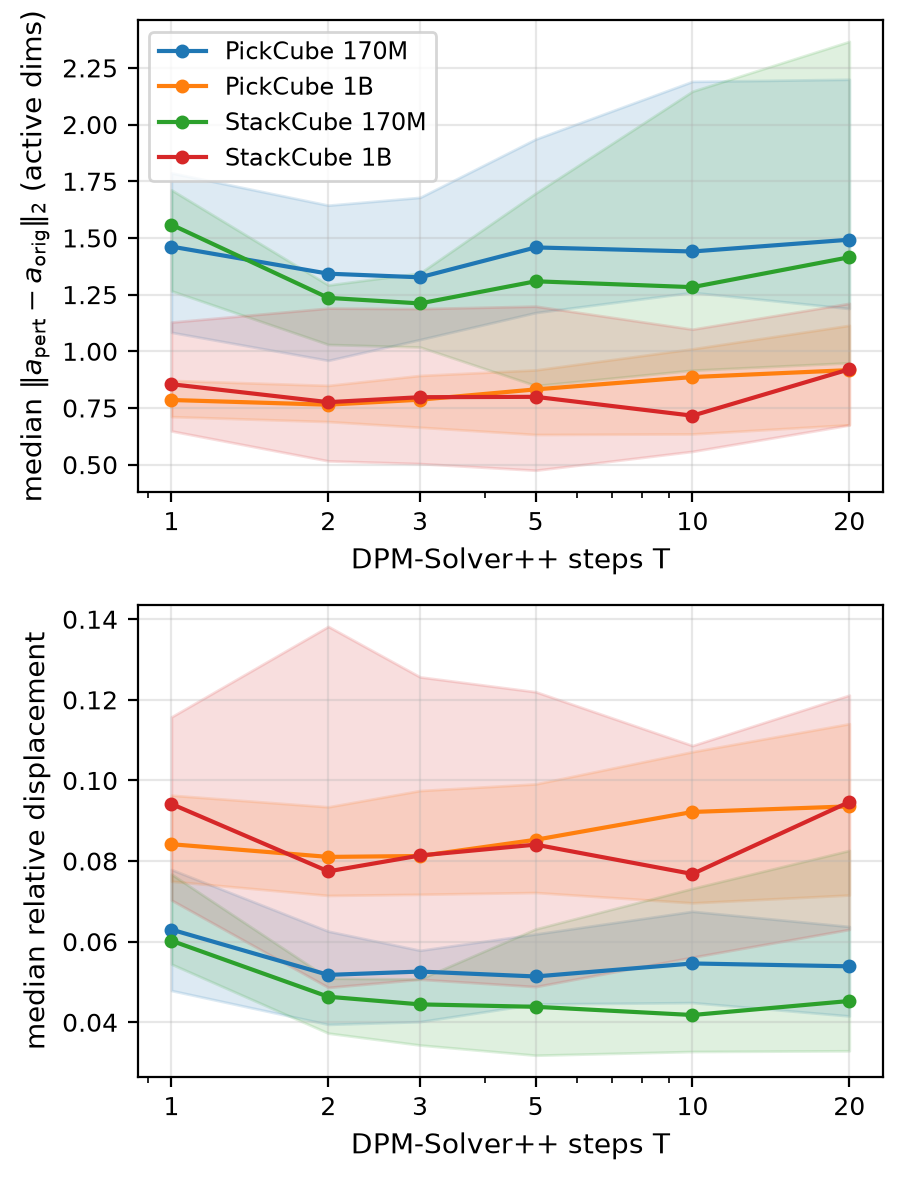
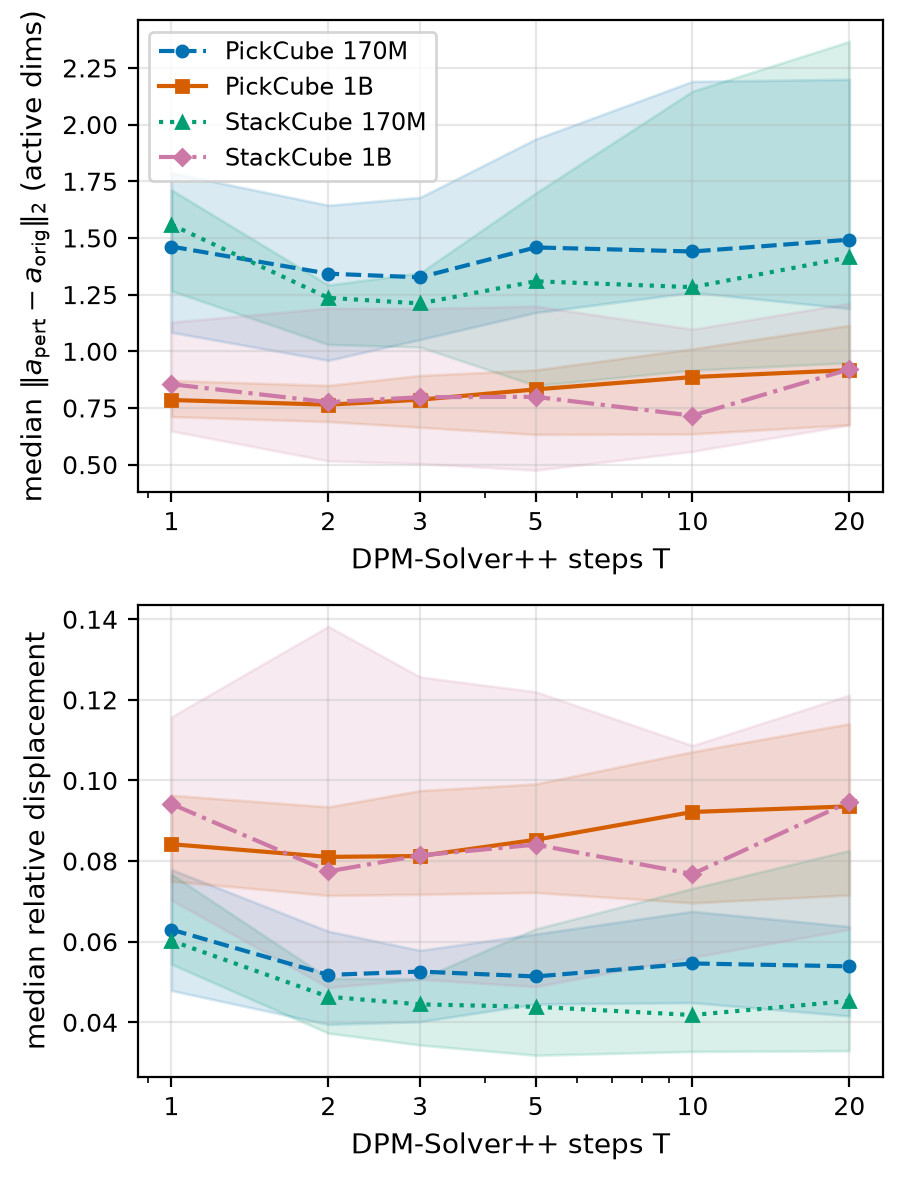
Post-audit polish: portable paper font, colorblind-safe displacement figure, NOTICE template exception, caption/CITATION/script/gitignore nits
Public mirror of the corresponding private-full commit. Curated surface only (no notes/ or report/), the .gitignore and run_displacement.sh scrubs preserved.

- paper.tex: XeLaTeX/LuaLaTeX branch loads TeX Gyre Termes by file via kpathsea instead of the macOS-only system Times New Roman, so the build reproduces on Overleaf and Linux CI with no system font. pdfLaTeX branch unchanged. paper.pdf rebuilt, 15 pages.
- paper.tex: fig:scale caption reworded to "plotted RDT-1B column heights".
- make_paper_figs.py and make_month5_figs.py: displacement figures give each series a colorblind-safe color plus a distinct line style and marker; regenerated from the committed CSV, no data change.
- NOTICE: record paper/ijcai26.sty and paper/named.bst as third-party template files.
- CITATION.cff: version 1.0.1, date 2026-07-04.
- scripts/run_displacement.sh: regen hint uses .venv/bin/python.
- .gitignore: ignore .playwright-mcp/.

diff --git a/make_month5_figs.py b/make_month5_figs.py
@@ -75,6 +75,22 @@ def groups_present(rows):
     return sorted(keys, key=lambda tm: (tm[0] or "", tm[1] or ""))
 
 
+# Colorblind-safe (Okabe-Ito) colors paired with distinct line styles and markers,
+# so the scale/task series stay separable in grayscale and for CVD readers.
+_DISP_STYLE = {
+    ("PickCube-v1", "170m"):  {"color": "#0072B2", "ls": "--", "marker": "o"},
+    ("PickCube-v1", "1b"):    {"color": "#D55E00", "ls": "-",  "marker": "s"},
+    ("StackCube-v1", "170m"): {"color": "#009E73", "ls": ":",  "marker": "^"},
+    ("StackCube-v1", "1b"):   {"color": "#CC79A7", "ls": "-.", "marker": "D"},
+}
+_DISP_FALLBACK = [
+    {"color": "#0072B2", "ls": "--", "marker": "o"},
+    {"color": "#D55E00", "ls": "-",  "marker": "s"},
+    {"color": "#009E73", "ls": ":",  "marker": "^"},
+    {"color": "#CC79A7", "ls": "-.", "marker": "D"},
+]
+
+
 def fig_displacement_vs_T(modality, B_n, seed):
     rows_all = load_displacement(modality)
     if not rows_all:
@@ -86,7 +102,7 @@ def fig_displacement_vs_T(modality, B_n, seed):
     fig, axes = plt.subplots(1, 2, figsize=(9, 3.6))
     for ax, field, ylab in [(axes[0], "l2_active", r"median $\|a_{pert}-a_{orig}\|_2$ (active dims)"),
                             (axes[1], "rel_active", "median relative displacement")]:
-        for (task, model) in series:
+        for si, (task, model) in enumerate(series):
             xs, ys, los, his = [], [], [], []
             for T in Ts:
                 sub = [r for r in rows_all
@@ -103,8 +119,10 @@ def fig_displacement_vs_T(modality, B_n, seed):
                                          n_rows=len(proj), solver_steps=T))
             if xs:
                 label = f"{task} {model}"
-                line, = ax.plot(xs, ys, marker="o", label=label)
-                ax.fill_between(xs, los, his, alpha=0.18, color=line.get_color())
+                st = _DISP_STYLE.get((task, model), _DISP_FALLBACK[si % len(_DISP_FALLBACK)])
+                line, = ax.plot(xs, ys, marker=st["marker"], linestyle=st["ls"],
+                                color=st["color"], label=label)
+                ax.fill_between(xs, los, his, alpha=0.18, color=st["color"])
         ax.set_xlabel("DPM-Solver++ steps T")
         ax.set_ylabel(ylab)
         ax.set_xscale("log")
@@ -130,7 +148,7 @@ def fig_displacement_vs_delfrac(modality, B_n, seed):
     series = groups_present(rows_all)
     ks = sorted(set().union(*[set(r.get("del_grid", [])) for r in rows_all]))
     fig, ax = plt.subplots(figsize=(5, 3.6))
-    for (task, model) in series:
+    for di, (task, model) in enumerate(series):
         xs, ys = [], []
         for k in ks:
             sub = [r for r in rows_all
@@ -142,7 +160,9 @@ def fig_displacement_vs_delfrac(modality, B_n, seed):
             if not np.isnan(point):
                 xs.append(k); ys.append(point)
         if xs:
-            ax.plot(xs, ys, marker="o", label=f"{task} {model}")
+            st = _DISP_STYLE.get((task, model), _DISP_FALLBACK[di % len(_DISP_FALLBACK)])
+            ax.plot(xs, ys, marker=st["marker"], linestyle=st["ls"], color=st["color"],
+                    label=f"{task} {model}")
     ax.set_xlabel("top-k deletion (%)")
     ax.set_ylabel(r"median $\|a_{pert}-a_{orig}\|_2$ (active dims)")
     ax.set_title(f"Displacement vs deletion fraction at T={T_FOR_DELFRAC}", fontsize=10)

diff --git a/make_paper_figs.py b/make_paper_figs.py
@@ -154,6 +154,23 @@ def fig_c1():
     plt.close(fig)
 
 
+# Colorblind-safe (Okabe-Ito) colors paired with distinct line styles and markers,
+# so the four scale/task series stay separable in grayscale and for CVD readers
+# rather than relying on hue alone.
+_DISP_STYLE = {
+    ("PickCube-v1", "170m"):  {"color": "#0072B2", "ls": "--", "marker": "o"},
+    ("PickCube-v1", "1b"):    {"color": "#D55E00", "ls": "-",  "marker": "s"},
+    ("StackCube-v1", "170m"): {"color": "#009E73", "ls": ":",  "marker": "^"},
+    ("StackCube-v1", "1b"):   {"color": "#CC79A7", "ls": "-.", "marker": "D"},
+}
+_DISP_FALLBACK = [
+    {"color": "#0072B2", "ls": "--", "marker": "o"},
+    {"color": "#D55E00", "ls": "-",  "marker": "s"},
+    {"color": "#009E73", "ls": ":",  "marker": "^"},
+    {"color": "#CC79A7", "ls": "-.", "marker": "D"},
+]
+
+
 def fig_displacement():
     with open(os.path.join(REPO, "out", "figures_m5", "table_displacement.csv")) as f:
         rows = [r for r in csv.DictReader(f)]
@@ -172,8 +189,10 @@ def fig_displacement():
             los = [float(r["ci_lo"]) for r in sel]
             his = [float(r["ci_hi"]) for r in sel]
             label = f"{task.replace('-v1', '')} {model.replace('170m', '170M').replace('1b', '1B')}"
-            line, = ax.plot(xs, ys, marker="o", markersize=4, color=f"C{idx}", label=label)
-            ax.fill_between(xs, los, his, alpha=0.15, color=line.get_color())
+            st = _DISP_STYLE.get((task, model), _DISP_FALLBACK[idx % len(_DISP_FALLBACK)])
+            line, = ax.plot(xs, ys, marker=st["marker"], markersize=4,
+                            linestyle=st["ls"], color=st["color"], label=label)
+            ax.fill_between(xs, los, his, alpha=0.15, color=st["color"])
         ax.set_xscale("log")
         ax.set_xticks([1, 2, 3, 5, 10, 20])
         ax.set_xticklabels(["1", "2", "3", "5", "10", "20"], fontsize=9)

diff --git a/paper/paper.tex b/paper/paper.tex
@@ -6,16 +6,16 @@
 \pdfpageheight=11in
 
 \usepackage{ijcai26}
-% Times font, robust across engines. pdfLaTeX (the usual venue build server) uses
-% the portable times package. XeLaTeX/LuaLaTeX use the system Times New Roman,
-% which requires that font to be installed (present on macOS; on a Linux/CI XeTeX
-% build either install it or set the main font to a bundled TeX Gyre Termes by path).
+% Times font, portable across engines. pdfLaTeX (the usual venue build server)
+% uses the standard times package. XeLaTeX/LuaLaTeX load TeX Gyre Termes, a
+% Times-metric-compatible font shipped with every TeX Live and Tectonic install,
+% by file through kpathsea, so the build needs no system-installed font.
 \usepackage{iftex}
 \ifPDFTeX
   \usepackage{times}
 \else
   \usepackage{fontspec}
-  \setmainfont{Times New Roman}
+  \setmainfont{texgyretermes}[Extension=.otf,UprightFont=*-regular,BoldFont=*-bold,ItalicFont=*-italic,BoldItalicFont=*-bolditalic]
 \fi
 \usepackage{url}
 \usepackage[hidelinks]{hyperref}
@@ -635,7 +635,7 @@ Even so, the direction of the effect admits no weak-policy reading, since the vi
 \begin{figure}[t]
 \centering
 \includegraphics[width=0.95\linewidth]{figures/fig_1b_vs_170m.png}
-\caption{Faithfulness AUCs for RDT-170M and RDT-1B on PickCube, with populations as in Table~\ref{tab:faithfulness}. The drawn reference lines are the vision bars (insertion 0.60, deletion 0.40). The language bars are 0.55 and 0.45. The plotted column heights are the pooled three-seed 1B values. The fine-tuned 1B moves all four AUCs in the faithful direction and passes both vision bars and the language deletion bar at every seed, while its deletion log-density magnitude shrinks (Table~\ref{tab:faithfulness}). Language insertion is the one seed-sensitive case, with a pooled value of 0.541 just under its 0.55 bar. The change that carries the argument, the vision AUCs improving while the deletion magnitude falls, points to the per-entry quadratic log-density readout rather than policy weakness as the cause of small $\Delta\log\pi$.}
+\caption{Faithfulness AUCs for RDT-170M and RDT-1B on PickCube, with populations as in Table~\ref{tab:faithfulness}. The drawn reference lines are the vision bars (insertion 0.60, deletion 0.40). The language bars are 0.55 and 0.45. The plotted RDT-1B column heights are the pooled three-seed values. The fine-tuned 1B moves all four AUCs in the faithful direction and passes both vision bars and the language deletion bar at every seed, while its deletion log-density magnitude shrinks (Table~\ref{tab:faithfulness}). Language insertion is the one seed-sensitive case, with a pooled value of 0.541 just under its 0.55 bar. The change that carries the argument, the vision AUCs improving while the deletion magnitude falls, points to the per-entry quadratic log-density readout rather than policy weakness as the cause of small $\Delta\log\pi$.}
 \label{fig:scale}
 \end{figure}
 